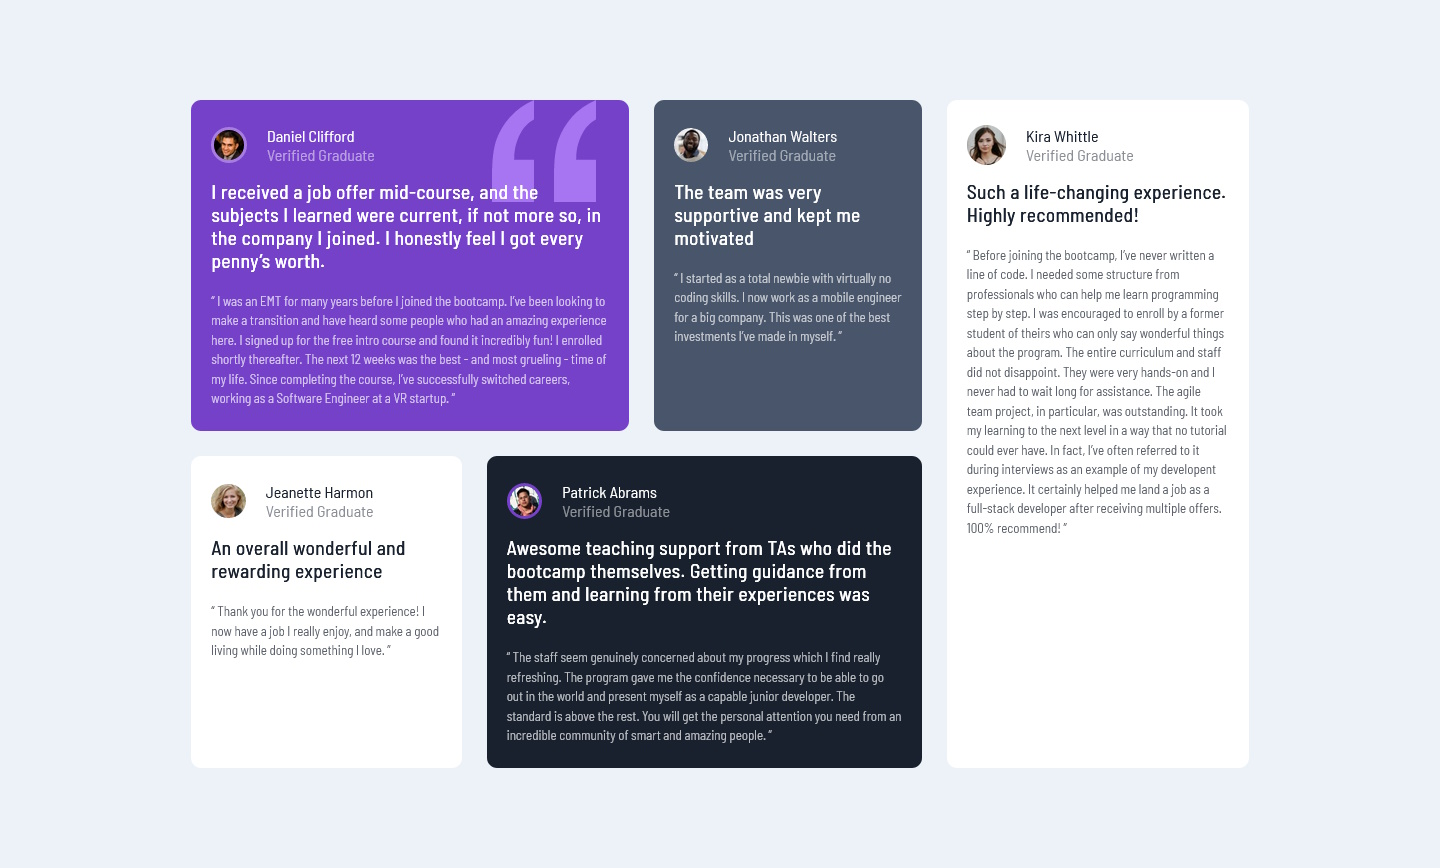
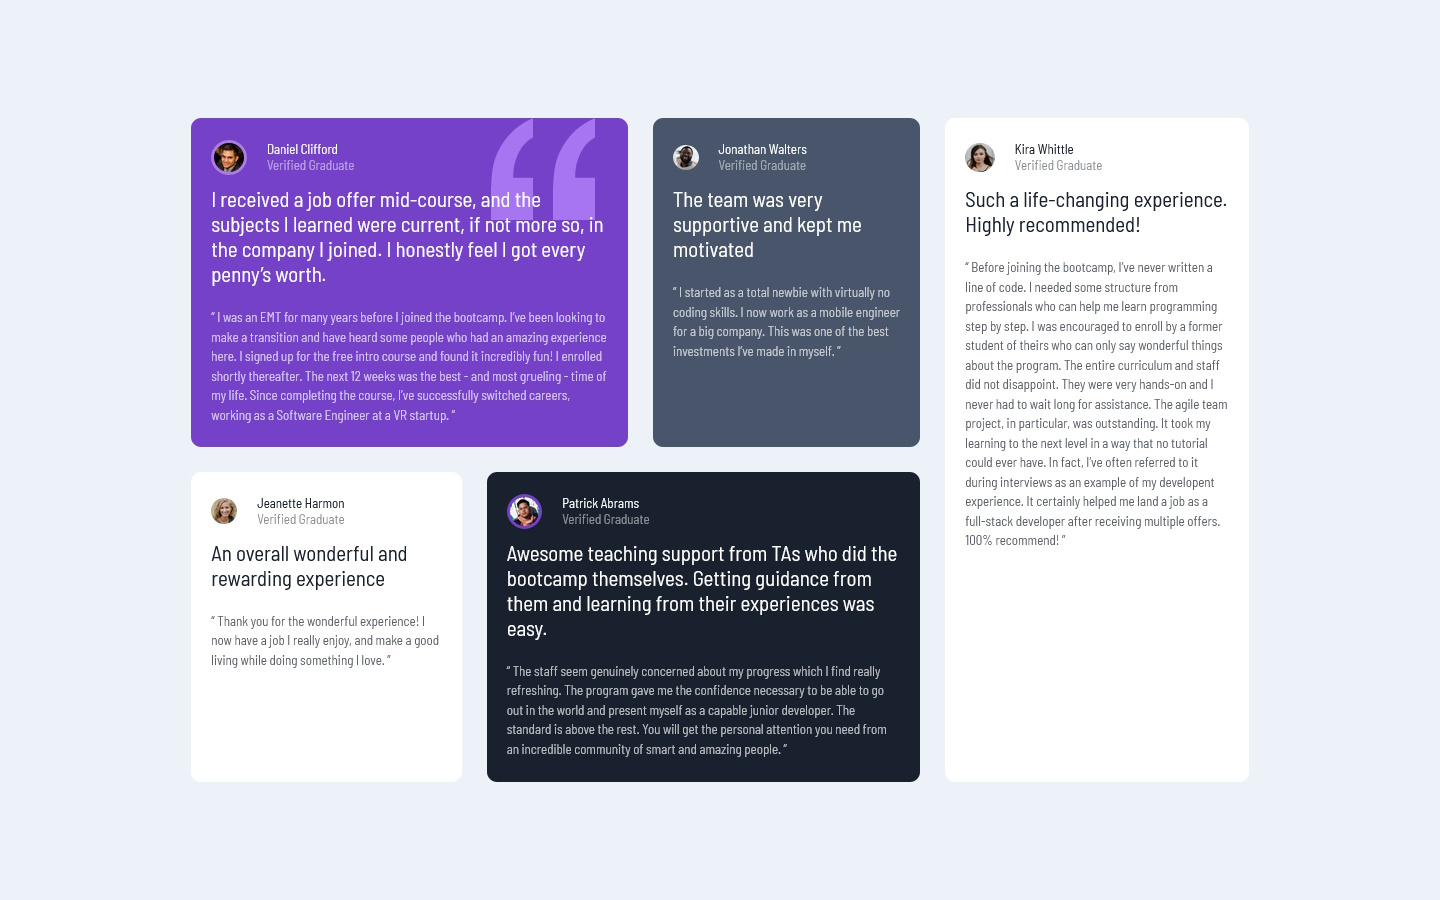
small corrections

diff --git a/styles.css b/styles.css
@@ -27,6 +27,7 @@ body {
     justify-content: center;
     background-color: var(--light-grayish-blue);
     font-family: var(--font-family);
+    font-size: var(--font-size);
     color: var(--white);
 }
 
@@ -44,8 +45,8 @@ body {
 img {
     border-radius: 50%;
     margin-right: 20px;
-    width: 20%;
-    height: 20%;
+    width: 15%;
+    height: 15%;
 }
 
 .details {
@@ -65,8 +66,8 @@ img {
 
 .sentence {
     margin-top: 0;
-    font-weight: var(--font-weight-600);
-    font-size: larger;
+    font-weight: var(--font-weight-500);
+    font-size: 1.3rem;
 }
 
 .review {
